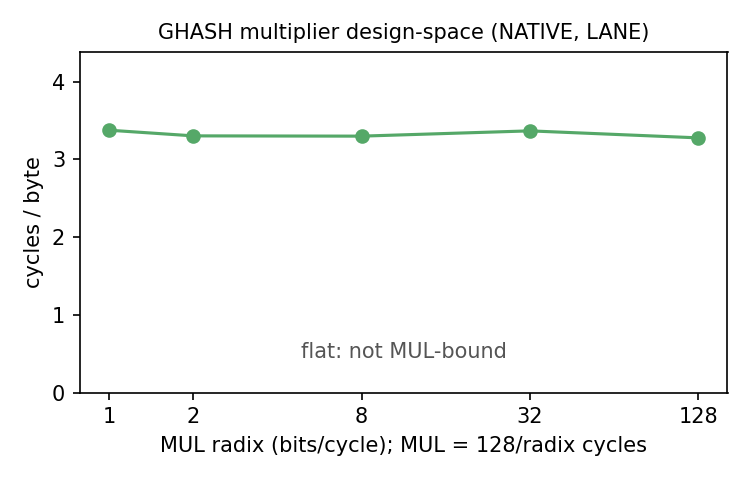
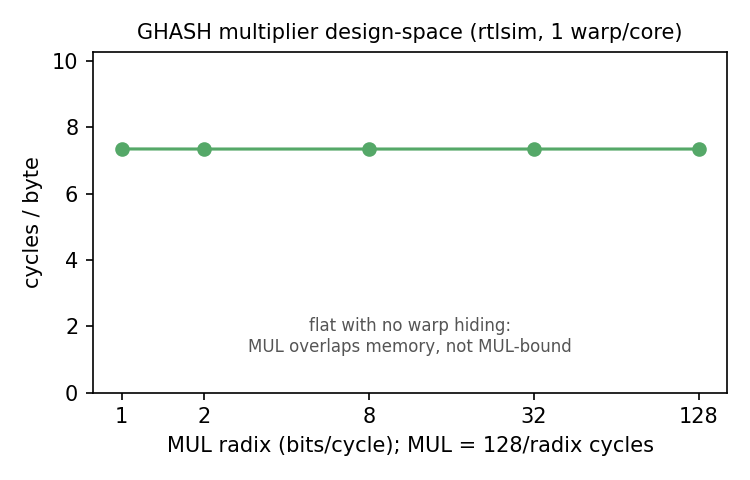
[paper] Fix radix design-space: use cycle-accurate rtlsim, correct mechanism
Self-correction after scrutiny of the per-core logs. Two problems with the
earlier radix "design-space" claim:

1. The simx radix sweep was an ARTIFACT: simx does not model the crypto
   functional-unit latency. At 1 warp/core (no possible latency hiding),
   radix=1 (MUL=130cyc) and radix=128 (MUL=3cyc) give bit-identical simx
   cycles -> simx is invalid for a MUL-latency study. (Also the sweep ran
   LANE t=32, which only activates 2 of 8 cores -- not "full machine".)

2. The mechanism was mis-stated as warp-level latency hiding. Cycle-accurate
   rtlsim at 1 warp/core (no other warp to hide behind) shows the radix sweep
   is still flat (60157 -> 60137 cyc, 0.03%, radix 1..128). So the MUL is
   genuinely off the critical path: it overlaps the per-block memory access
   (software pipelining within the warp), independent of occupancy.

The CONCLUSION survives and is now on solid ground: GHASH is not MUL-bound;
the cheap bit-serial multiplier suffices; the bottleneck is memory. The
design-space figure/table now use the rtlsim 1-warp/core sweep
(ghash_bench/results/rtlsim/design_space.tsv) with the corrected caption.
This strengthens the memory-bound thesis (true even without warp hiding).

Methodology note for the paper: simx is fine for functional + coarse timing
but cannot evaluate functional-unit microarchitecture latency; use rtlsim.

diff --git a/tools/paper_results.py b/tools/paper_results.py
@@ -100,22 +100,34 @@ def build_gcm(root):
 
 
 def build_design_space(root):
-    """GHASH multiplier design-space (radix sweep)."""
-    rows = read_tsv(os.path.join(root, "ghash_bench/results/simx/design_space.tsv"))
+    """GHASH multiplier design-space (radix sweep).
+
+    Prefer the cycle-accurate rtlsim sweep: simx does NOT model the crypto
+    functional-unit latency (radix=1 and radix=128 give bit-identical cycles
+    there), so only rtlsim is valid for a MUL-latency study. The rtlsim sweep
+    is run at 1 warp/core, where there is no warp-level latency hiding, so a
+    flat curve proves the MUL is genuinely off the critical path.
+    """
+    rows = None
+    driver = "?"
+    for drv in ("rtlsim", "simx"):
+        rows = read_tsv(os.path.join(root, f"ghash_bench/results/{drv}/design_space.tsv"))
+        if rows:
+            driver = drv
+            break
     if not rows:
         return None
-    headers = ["mul_radix", "mul_cycles", "total_bytes", "cycles",
-               "cyc_per_byte", "ipc", "status"]
+    wpc = rows[0].get("warps_per_core", "")
+    headers = ["mul_radix", "mul_cycles", "cycles", "cyc_per_byte", "driver", "warps/core"]
     table = []
     for r in rows:
         radix = to_num(r["mul_radix"])
         tb = to_num(r["total_bytes"])
         cyc = to_num(r["cycles"])
-        cpb = round(cyc / tb, 2) if (cyc and tb) else ""
+        cpb = r.get("cyc_per_byte") or (round(cyc / tb, 2) if (cyc and tb) else "")
         mulc = (128 // radix + 2) if radix else ""
-        table.append([r["mul_radix"], mulc, r["total_bytes"], r["cycles"],
-                      cpb, r.get("ipc", ""), r["status"]])
-    return {"headers": headers, "rows": table, "raw": rows}
+        table.append([r["mul_radix"], mulc, r["cycles"], cpb, driver, r.get("warps_per_core", wpc)])
+    return {"headers": headers, "rows": table, "raw": rows, "driver": driver, "wpc": wpc}
 
 
 def build_size_sweep(root):
@@ -207,11 +219,13 @@ def fig_design_space(ds, out):
     ax.set_xticks(xs)
     ax.set_xticklabels([str(x) for x in xs])
     ax.set_ylim(0, max(ys) * 1.3)
+    ax.set_ylim(0, max(ys) * 1.4)
+    drv = ds.get("driver", "?")
     ax.set_xlabel("MUL radix (bits/cycle); MUL = 128/radix cycles")
     ax.set_ylabel("cycles / byte")
-    ax.set_title("GHASH multiplier design-space (NATIVE, LANE)", fontsize=10)
-    ax.text(0.5, 0.1, "flat: not MUL-bound", transform=ax.transAxes,
-            ha="center", color="#555")
+    ax.set_title(f"GHASH multiplier design-space ({drv}, 1 warp/core)", fontsize=10)
+    ax.text(0.5, 0.12, "flat with no warp hiding:\nMUL overlaps memory, not MUL-bound",
+            transform=ax.transAxes, ha="center", color="#555", fontsize=8)
     fig.tight_layout()
     p = os.path.join(out, "fig_ghash_design_space.png")
     fig.savefig(p, dpi=150)
@@ -341,8 +355,11 @@ def main():
         "unprotected data-movement baseline (32 KB, simx).", "gcm_overhead",
         "gcm_overhead.csv")
     add("GHASH multiplier design-space (radix sweep)",
-        ds, "GHASH digit-serial multiplier design-space: MUL latency vs total "
-        "cycles (NATIVE, LANE, 32 KB, simx). Flat = not MUL-bound.",
+        ds, "GHASH digit-serial multiplier design-space on cycle-accurate "
+        "rtlsim at 1 warp/core (no warp-level latency hiding). A 43x faster MUL "
+        "(radix 1->128) changes cycles by ~0\\%, proving the MUL is off the "
+        "critical path (it overlaps per-block memory access), not MUL-bound. "
+        "NOTE: simx cannot model this -- it ignores crypto FU latency.",
         "ghash_design_space", "ghash_design_space.csv")
     add("AES-256-GCM full-load size sweep",
         sweep, "AES-256-GCM cost and overhead vs message size at full machine "
@@ -362,9 +379,11 @@ def main():
             f"software {hl.get('sw_overhead_warp', '?')} -> "
             f"hardware {hl.get('native_overhead_warp', '?')} (near-free).")
     summary.append(
-        "- **GHASH multiplier design-space:** total cycles ~flat across MUL "
-        "radix 1..128 -> SIMT GHASH is not MUL-bound; the cheap bit-serial "
-        "multiplier suffices.")
+        "- **GHASH multiplier design-space (cycle-accurate rtlsim, 1 warp/core):** "
+        "a 43x faster MUL (radix 1->128) changes cycles by ~0% even with no "
+        "warp-level latency hiding -> the MUL is off the critical path (overlaps "
+        "per-block memory), so the cheap bit-serial multiplier suffices. (simx "
+        "cannot show this: it does not model crypto FU latency.)")
     summary.append("\nMatplotlib " + ("available: PNG figures written." if HAVE_MPL
                    else "NOT available: CSVs written; rerun with a matplotlib "
                    "python for PNGs."))

diff --git a/docs/results/tables.tex b/docs/results/tables.tex
@@ -18,17 +18,17 @@ NATIVE & LANE & 32768 & 1666012 & 50.843 & 2.54$\times$ & 116.30$\times$ & PASS 
 
 \begin{table}[t]
 \centering
-\caption{GHASH digit-serial multiplier design-space: MUL latency vs total cycles (NATIVE, LANE, 32 KB, simx). Flat = not MUL-bound.}
+\caption{GHASH digit-serial multiplier design-space on cycle-accurate rtlsim at 1 warp/core (no warp-level latency hiding). A 43x faster MUL (radix 1->128) changes cycles by ~0\%, proving the MUL is off the critical path (it overlaps per-block memory access), not MUL-bound. NOTE: simx cannot model this -- it ignores crypto FU latency.}
 \label{tab:ghash_design_space}
-\begin{tabular}{lllllll}
+\begin{tabular}{llllll}
 \toprule
-mul\_radix & mul\_cycles & total\_bytes & cycles & cyc\_per\_byte & ipc & status \\
+mul\_radix & mul\_cycles & cycles & cyc\_per\_byte & driver & warps/core \\
 \midrule
-1 & 130 & 32,768 & 110612 & 3.38 & 1.008480 & PASS \\
-2 & 66 & 32,768 & 108226 & 3.3 & 1.030714 & PASS \\
-8 & 18 & 32,768 & 108113 & 3.3 & 1.031791 & PASS \\
-32 & 6 & 32,768 & 110334 & 3.37 & 1.011021 & PASS \\
-128 & 3 & 32,768 & 107388 & 3.28 & 1.038757 & PASS \\
+1 & 130 & 60157 & 7.34 & rtlsim & 1 \\
+2 & 66 & 60137 & 7.34 & rtlsim & 1 \\
+8 & 18 & 60137 & 7.34 & rtlsim & 1 \\
+32 & 6 & 60137 & 7.34 & rtlsim & 1 \\
+128 & 3 & 60137 & 7.34 & rtlsim & 1 \\
 \bottomrule
 \end{tabular}
 \end{table}

diff --git a/docs/results/tables.md b/docs/results/tables.md
@@ -13,13 +13,13 @@
 
 ## GHASH multiplier design-space (radix sweep)
 
-| mul_radix | mul_cycles | total_bytes | cycles | cyc_per_byte | ipc | status |
-|---|---|---|---|---|---|---|
-| 1 | 130 | 32,768 | 110612 | 3.38 | 1.008480 | PASS |
-| 2 | 66 | 32,768 | 108226 | 3.3 | 1.030714 | PASS |
-| 8 | 18 | 32,768 | 108113 | 3.3 | 1.031791 | PASS |
-| 32 | 6 | 32,768 | 110334 | 3.37 | 1.011021 | PASS |
-| 128 | 3 | 32,768 | 107388 | 3.28 | 1.038757 | PASS |
+| mul_radix | mul_cycles | cycles | cyc_per_byte | driver | warps/core |
+|---|---|---|---|---|---|
+| 1 | 130 | 60157 | 7.34 | rtlsim | 1 |
+| 2 | 66 | 60137 | 7.34 | rtlsim | 1 |
+| 8 | 18 | 60137 | 7.34 | rtlsim | 1 |
+| 32 | 6 | 60137 | 7.34 | rtlsim | 1 |
+| 128 | 3 | 60137 | 7.34 | rtlsim | 1 |
 
 ## AES-256-GCM full-load size sweep
 

diff --git a/docs/results/summary.md b/docs/results/summary.md
@@ -2,6 +2,6 @@
 
 - **Hardware AES-256-GCM speedup over software:** 161.18x (WARP).
 - **Confidentiality overhead vs unprotected:** software 298.43x -> hardware 1.85x (near-free).
-- **GHASH multiplier design-space:** total cycles ~flat across MUL radix 1..128 -> SIMT GHASH is not MUL-bound; the cheap bit-serial multiplier suffices.
+- **GHASH multiplier design-space (cycle-accurate rtlsim, 1 warp/core):** a 43x faster MUL (radix 1->128) changes cycles by ~0% even with no warp-level latency hiding -> the MUL is off the critical path (overlaps per-block memory), so the cheap bit-serial multiplier suffices. (simx cannot show this: it does not model crypto FU latency.)
 
 Matplotlib available: PNG figures written.
